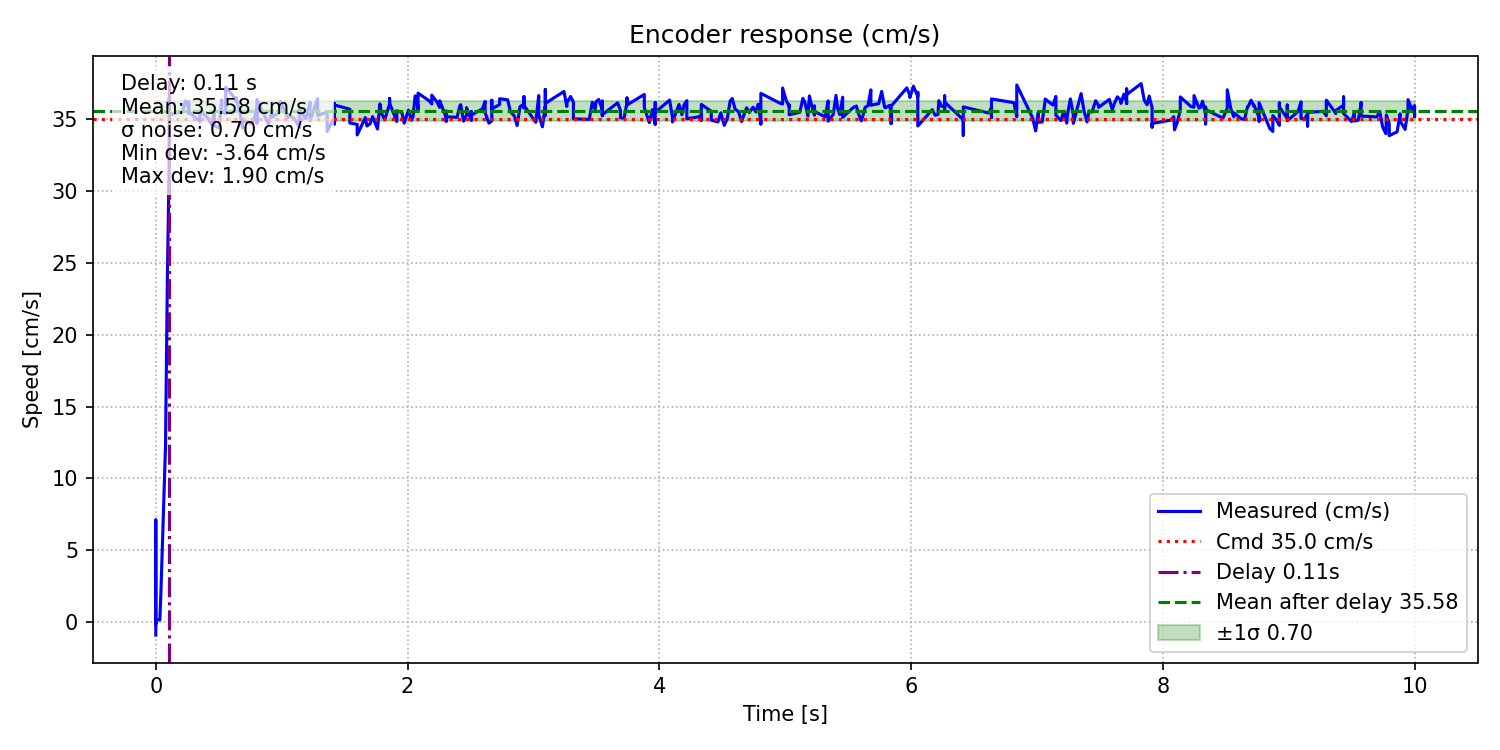
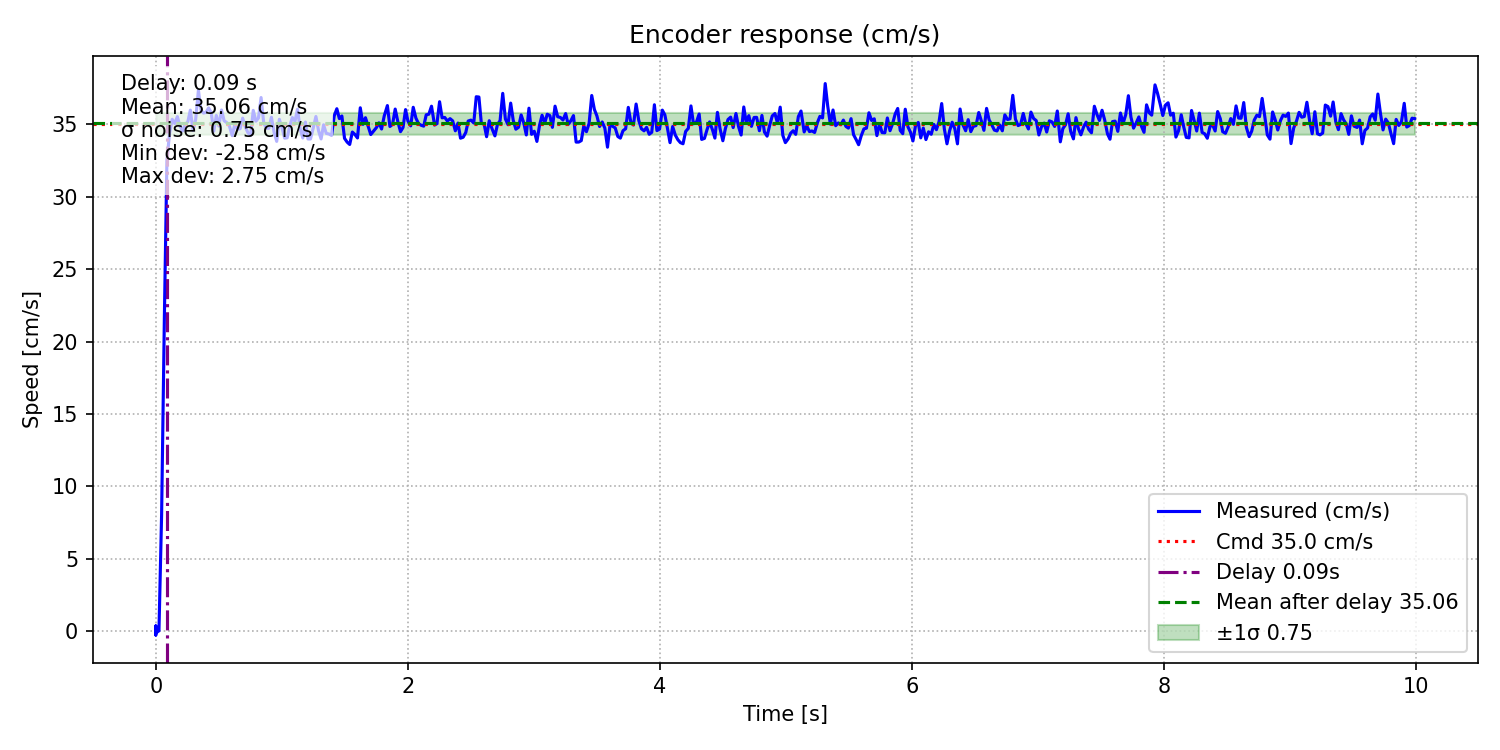
encoder kf

diff --git a/Embedded_Platform/Embedded_2024/scripts/encoder_sine_test.py b/Embedded_Platform/Embedded_2024/scripts/encoder_sine_test.py
@@ -1,0 +1,223 @@
+#!/usr/bin/env python3
+from __future__ import annotations
+
+"""Motor‑encoder sine‑wave test utility
+─────────────────────────────────────────────────
+Drives the motor with a *single* full sine‑wave speed command that spans
+0 → Vmax → 0 cm/s over the requested *duration*, logs encoder feedback and
+plots commanded vs measured speed.
+"""
+
+import argparse
+import sys
+import time
+import math
+import re
+import csv
+from pathlib import Path
+
+import serial
+
+# ────────────────────────────────────────────────────────────────────────────────
+ENC_PATTERN = re.compile(r"@5:([-0-9.]+);;")
+
+MOTOR_ID   = 11
+CM_TO_DEG  = -146.0  # deg/s per cm/s (negative to fix sign)
+BAND_TOL   = 0.15    # ±10 % tolerance band for delay detection
+HOLD_S     = 0.5     # must remain inside band for this long to count as settled
+TX_PERIOD  = 0.10    # command transmission period [s]
+
+# ────────────────────────────────────────────────────────────────────────────────
+
+def build_cmd(speed_cm_s: float, angle_deg: float) -> bytes:
+    return f"#{MOTOR_ID}:{speed_cm_s:.4f}:{angle_deg:.2f};;\r\n".encode()
+
+# ────────────────────────────────────────────────────────────────────────────────
+
+def sine_profile(t, period: float, vmax: float):
+    """Full sine‑wave profile 0 → vmax → 0 over *period* seconds.
+    Works with scalars *or* numpy arrays."""
+    import numpy as np  # local import to avoid hard dependency when unused
+
+    tau = 2 * math.pi
+    t_arr = np.asarray(t)  # converts scalars transparently
+    return 0.5 * vmax * (1 - np.cos(tau * t_arr / period))
+
+# ────────────────────────────────────────────────────────────────────────────────
+
+def run_test(port: str, baud: int, vmax_cm_s: float, duration: float, steer: float) -> tuple[list[float], list[float]]:
+    ser = serial.Serial(port, baudrate=baud, timeout=0.1)
+    time.sleep(0.1)
+
+    t0 = time.time()
+    next_send = 0.0
+
+    times:  list[float] = []  # timestamps for encoder samples
+    speeds: list[float] = []  # encoder speed samples [cm/s]
+
+    print(f"Running {duration:.1f}s sine wave 0 → {vmax_cm_s:.1f} cm/s …")
+    try:
+        while True:
+            now      = time.time()
+            elapsed  = now - t0
+            if elapsed >= duration:
+                break
+
+            # send next command at fixed TX_PERIOD cadence
+            if elapsed >= next_send:
+                cmd_speed = float(sine_profile(elapsed, duration/2, vmax_cm_s))
+                ser.write(build_cmd(cmd_speed, steer))
+                next_send += TX_PERIOD
+
+            # read all available encoder lines
+            while ser.in_waiting:
+                line = ser.readline().decode("utf-8", errors="ignore").strip()
+                m = ENC_PATTERN.match(line)
+                if m:
+                    speeds.append(float(m.group(1)))
+                    times.append(elapsed)
+
+            # status bar each second
+            if int(elapsed) % 1 == 0:
+                sys.stdout.write(f"\r{elapsed:4.1f}s / {duration:.1f}s")
+                sys.stdout.flush()
+
+    except KeyboardInterrupt:
+        print("\nInterrupted by user — stopping motor.")
+
+    finally:
+        ser.write(build_cmd(0.0, 0.0))  # always stop motor on exit
+        ser.close()
+        print("\nSerial closed.")
+
+    return times, speeds
+
+# ────────────────────────────────────────────────────────────────────────────────
+
+def estimate_delay(times: list[float], speeds: list[float], cmd_speed: float,
+                   tol: float = BAND_TOL, hold: float = HOLD_S) -> float:
+    """Return first time |speed − cmd| ≤ tol·|cmd| for ≥ *hold* seconds.
+    Only meaningful near the peak where cmd_speed ≈ vmax."""
+    import numpy as np
+    t = np.array(times)
+    v = np.array(speeds)
+    if t.size == 0:
+        return 0.0
+
+    in_band = np.abs(v - cmd_speed) <= tol * abs(cmd_speed)
+    if not in_band.any():
+        return t[-1]
+
+    idx = np.where(in_band)[0]
+    segments = np.split(idx, np.where(np.diff(idx) != 1)[0] + 1)
+    for seg in segments:
+        if t[seg[-1]] - t[seg[0]] >= hold:
+            return t[seg[0]]
+    return t[-1]
+
+
+# ────────────────────────────────────────────────────────────────────────────────
+
+def compute_stats(times: list[float], speeds: list[float], start_time: float) -> dict:
+    import numpy as np
+    t = np.array(times)
+    s = np.array(speeds)
+    mask = t >= start_time
+    if not mask.any():
+        return {k: float("nan") for k in ("mean", "std", "min_dev", "max_dev")}
+    s_seg = s[mask]
+    mean  = float(s_seg.mean())
+    resid = s_seg - mean
+    return {
+        "mean": mean,
+        "std":  float(resid.std(ddof=1)),
+        "min_dev": float(resid.min()),
+        "max_dev": float(resid.max()),
+    }
+
+# ────────────────────────────────────────────────────────────────────────────────
+
+def save_csv(times: list[float], speeds: list[float], vmax: float, duration: float, path: Path) -> None:
+    with open(path, "w", newline="") as f:
+        w = csv.writer(f)
+        w.writerow(["time_s", "enc_speed_cm_s", "cmd_speed_cm_s"])
+        for t, v in zip(times, speeds):
+            w.writerow([t, v, sine_profile(t, duration/2, vmax)])
+    print(f"CSV saved ➜ {path}")
+
+
+# ────────────────────────────────────────────────────────────────────────────────
+
+def save_plot(times: list[float], speeds: list[float], vmax: float, duration: float,
+              delay: float, stats: dict, path: Path) -> None:
+    try:
+        import numpy as np
+        import matplotlib.pyplot as plt
+    except ImportError:
+        print("matplotlib not installed; skipping plot.")
+        return
+
+    t = np.array(times)
+    cmd = sine_profile(t, duration/2, vmax)
+
+    plt.figure(figsize=(10, 5))
+    plt.plot(t, cmd, label="Command (cm/s)", linestyle="--")
+    plt.plot(t, speeds, label="Encoder (cm/s)")
+
+    plt.axhline(vmax,  color="red",   linestyle=":",  label=f"Vmax {vmax:.1f} cm/s")
+    plt.axvline(delay, color="purple", linestyle="-.", label=f"Delay {delay:.2f}s")
+
+    txt = (
+        f"Delay to ±10 % band : {delay:.2f} s\n"
+        f"Mean near peak      : {stats['mean']:.2f} cm/s\n"
+        f"σ noise             : {stats['std']:.2f} cm/s\n"
+        f"Min dev             : {stats['min_dev']:.2f} cm/s\n"
+        f"Max dev             : {stats['max_dev']:.2f} cm/s"
+    )
+    plt.gca().text(0.02, 0.97, txt, transform=plt.gca().transAxes,
+                   va="top", bbox=dict(facecolor="white", alpha=0.7, edgecolor="none"))
+
+    plt.xlabel("Time [s]")
+    plt.ylabel("Speed [cm/s]")
+    plt.title("Encoder response to sine‑wave command (cm/s)")
+    plt.grid(True, linestyle=":")
+    plt.legend()
+    plt.tight_layout()
+    path.parent.mkdir(parents=True, exist_ok=True)
+    plt.savefig(path, dpi=150)
+    print(f"Plot saved ➜ {path}")
+
+
+# ────────────────────────────────────────────────────────────────────────────────
+
+def main() -> None:
+    ap = argparse.ArgumentParser(description="Sine‑wave encoder test (cm/s)")
+    ap.add_argument("--max",   type=float, default=75, help="Peak command speed [cm/s]")
+    ap.add_argument("--steer", type=float, default=0,  help="Steering angle [deg]")
+    ap.add_argument("--dur",   type=float, default=20, help="Duration / sine period [s]")
+    ap.add_argument("--csv",   type=Path, help="Save raw data to CSV")
+    ap.add_argument("--port",  default="/dev/ttyACM0")
+    ap.add_argument("--baud",  type=int, default=115200)
+    args = ap.parse_args()
+
+    times, speeds = run_test(args.port, args.baud, args.max, args.dur, args.steer)
+    if len(speeds) < 3:
+        print("Insufficient samples.")
+        return
+
+    # estimate delay around the peak (use vmax as reference)
+    delay = estimate_delay(times, speeds, args.max)
+    stats = compute_stats(times, speeds, delay)
+
+    print(f"\nDelay to ±10 % band   : {delay:.3f} s")
+    print(f"Mean encoder speed    : {stats['mean']:.3f} cm/s")
+    print(f"Noise σ               : {stats['std']:.3f} cm/s")
+    print(f"Min deviation         : {stats['min_dev']:.3f} cm/s")
+    print(f"Max deviation         : {stats['max_dev']:.3f} cm/s")
+    if args.csv:
+        save_csv(times, speeds, args.max, args.dur, args.csv)
+    script_dir = Path(__file__).parent
+    save_plot(times, speeds, args.max, args.dur, delay, stats,
+              script_dir / f"encoder_sine_test_{args.max:.0f}cm_s.png")
+if __name__ == "__main__":
+    main()

diff --git a/Embedded_Platform/Embedded_2024/source/periodics/encoder.cpp b/Embedded_Platform/Embedded_2024/source/periodics/encoder.cpp
@@ -140,7 +140,7 @@ float clamp(float x, float min, float max) {
     return x;
 }
 
-float CEncoder::readAngularSpeed() {
+float CEncoder::readAngularSpeedKf() {
     if (!_kfTimerStarted) {
         _kfTimer.start();
         _kfTimerStarted = true;
@@ -197,6 +197,65 @@ float CEncoder::readAngularSpeed() {
 
     return speedDegPerSec;
 }
+float CEncoder::readAngularSpeed() {
+    static Timer  timer;
+    static bool   runOnce  = false;
+    static float  prevAng  = 0.0f;
+    static float  sumDelta = 0.0f;
+    static float  lastT    = 0.0f;
+
+    if (!runOnce) {
+        timer.start();
+        prevAng = readAngleDegrees();
+        lastT   = timer.read();
+        runOnce = true;
+    }
+
+    float ang   = readAngleDegrees();
+    float delta = ang - prevAng;
+    if      (delta >  180.0f) delta -= 360.0f;
+    else if (delta < -180.0f) delta += 360.0f;
+    sumDelta   += delta;
+    prevAng     = ang;
+
+    float now = timer.read();
+    if (now - lastT < REPORT_INTERVAL_SEC) {
+        return lastPublishedSpeed;  // or 0 if you only update periodically
+    }
+
+    float dt    = now - lastT;
+    float speed = sumDelta / dt;     // deg/s
+
+    //filtering / hysteresis
+    static float speedIIR = 0.0f;
+    constexpr float tau_speed = 0.025f;       // time-constant in seconds
+    float alpha = tau_speed / (tau_speed + dt);
+    speedIIR   = alpha * speedIIR + (1.0f - alpha) * speed;
+    speed      = speedIIR;
+    speed = applyHampel(speed);
+    // speed = clamp(speed, -MAX_PHYS, +MAX_PHYS);
+    speed = applySpeedHysteresis(speed);
+
+    // 5) reset for next interval
+    sumDelta = 0.0f;
+    lastT    = now;
+    lastPublishedSpeed = speed;
+
+    char buf[64];
+    int n = std::snprintf(buf, sizeof(buf),
+                    "@5:%.3f;;\r\n",
+                    speed / DEGREE_PER_CM);
+    if (n > 0 && static_cast<std::size_t>(n) < sizeof(buf)) {
+        m_serial.write(buf, n);
+    }
+
+    // int len = snprintf(buf, sizeof(buf),
+    //                 "[Encoder] Total displacement = %.2f°\n",
+    //                 displacementDeg);
+    // m_serial.write(buf, len);
+
+    return speed;
+}
 
 float CEncoder::readAngularAcceleration() {
     float dt = m_dt;
@@ -226,11 +285,6 @@ float CEncoder::getTotalDisplacementDegrees()
 
     prev = ang_raw;
     float total = revs * 360.0f + ang_raw;
-    char buf[64];
-    int len = snprintf(buf, sizeof(buf),
-                    "[Encoder] Total displacement = %.2f°\n",
-                    total);
-    m_serial.write(buf, len);
     return total;
 }
 
@@ -243,7 +297,11 @@ float CEncoder::getLinearAcceleration() {
 }
 
 void CEncoder::_run() {
-    readAngularSpeed();
+    readAngularSpeedKf();
+    // readAngularSpeed();
+    
+    // displacementDeg = getTotalDisplacementDegrees(); 
+
     // static Timer execTimer;
     // static bool timerStarted = false;
     // if (!timerStarted) {
@@ -255,7 +313,7 @@ void CEncoder::_run() {
 
     // float angleDeg = readAngleDegrees();
     // float speedDeg = readAngularSpeed();
-    displacementDeg = getTotalDisplacementDegrees(); 
+    // displacementDeg = getTotalDisplacementDegrees(); 
 
     // // ————— 5) Mark end of execution and accumulate for average print
     // uint32_t end_us     = execTimer.read_us();

diff --git a/Embedded_Platform/Embedded_2024/scripts/encoder_noise_test.py b/Embedded_Platform/Embedded_2024/scripts/encoder_noise_test.py
@@ -165,7 +165,7 @@ def save_plot(times: list[float], speeds: list[float], cmd_speed: float, delay: 
 
 def main() -> None:
     ap = argparse.ArgumentParser(description="Constant‑speed noise test with delay estimation (cm/s)")
-    ap.add_argument("--cmd", type=float, default=35, help="Commanded speed [cm/s]")
+    ap.add_argument("--cmd", type=float, default=45, help="Commanded speed [cm/s]")
     ap.add_argument("--steer", type=float, default=0, help="Steering angle [deg]")
     ap.add_argument("--dur", type=float, default=10, help="Duration [s]")
     ap.add_argument("--csv", type=Path, help="Save raw data to CSV")
